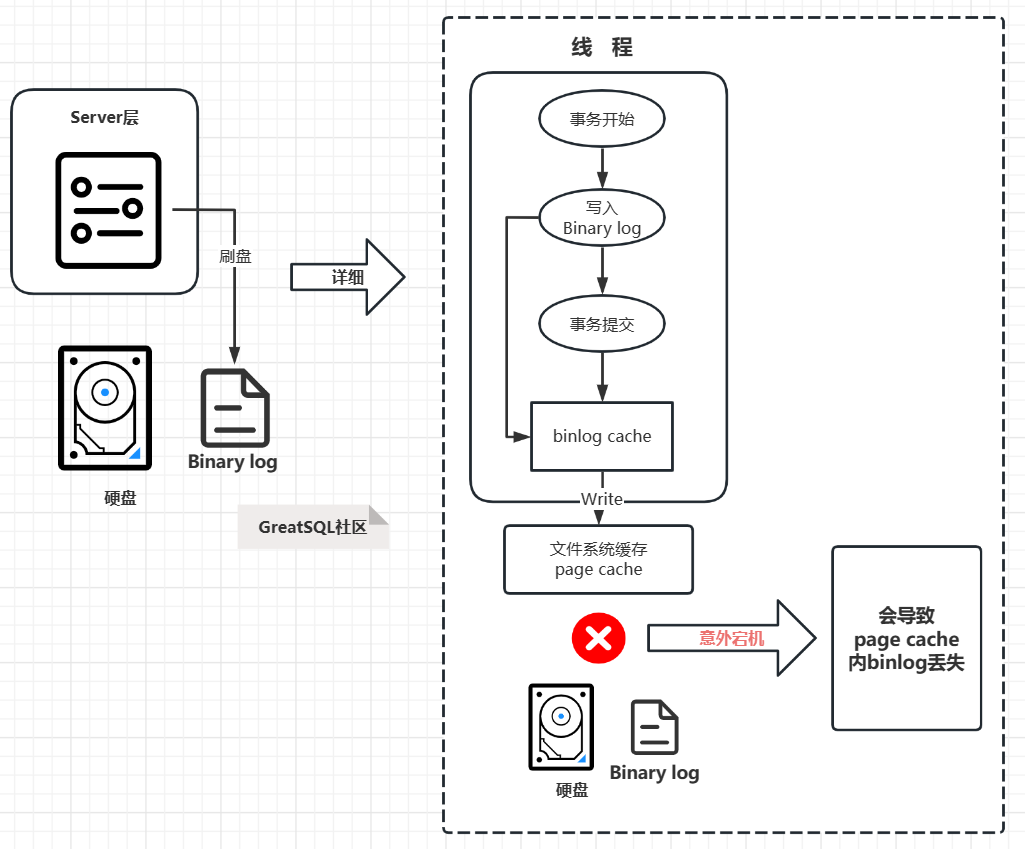
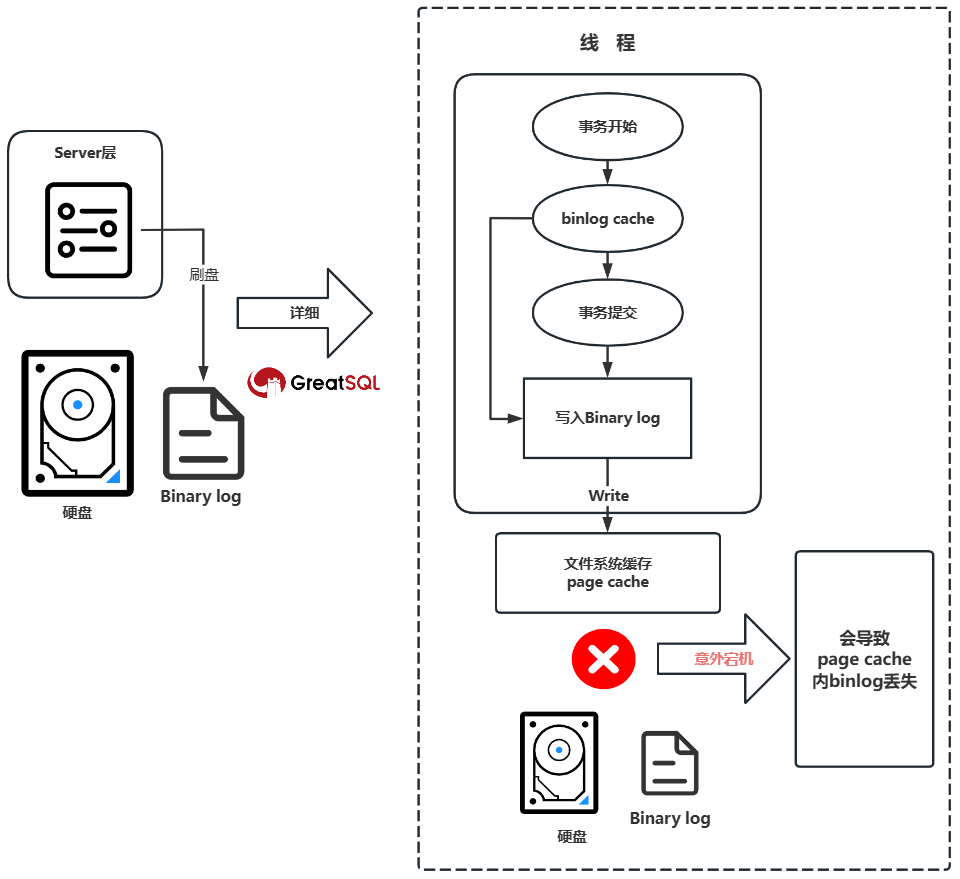
修正:Binary Log 刷盘流程图错误

diff --git a/2-about-greatsql/4-3-greatsql-binary-log.md b/2-about-greatsql/4-3-greatsql-binary-log.md
@@ -116,7 +116,7 @@ binlog_transaction_dependency_tracking = WRITESET
 - `binlog_transaction_dependency_tracking`
 
   用于控制 GreatSQL 主服务器在生成 Binlog 时如何跟踪事务依赖关系。这对于提高从服务器的并行复制性能非常重要。可选值包括：
- 
+
   - **COMMIT_ORDER**，按事务提交的顺序跟踪依赖关系。这是默认值。适用于大多数工作负载，但并行度较低。
   - **WRITESET**：基于事务的写集合跟踪依赖关系。事务之间如果没有写集合冲突，则可以并行执行。适合有高并发写操作的工作负载。
   - **WRITESET_SESSION**，基于写集合并按会话跟踪依赖关系。这意味着即使写集合之间没有冲突，但如果同一会话的事务，它们还是会按顺序执行。适用于事务之间存在一定顺序但又需要高并行度的场景。

diff --git a/README.md b/README.md
@@ -4,7 +4,7 @@
 [![](https://img.shields.io/badge/License-GPL_v2.0-blue.svg)](https://gitee.com/GreatSQL/GreatSQL/blob/master/LICENSE)
 [![](https://img.shields.io/badge/release-8.0.32_26-blue.svg)](https://gitee.com/GreatSQL/GreatSQL/releases/tag/GreatSQL-8.0.32-26)
 
-最后更新：2024-11-06。
+最后更新：2024-11-08。
 
 本文档适用版本：GreatSQL 8.0.32-26。
 
